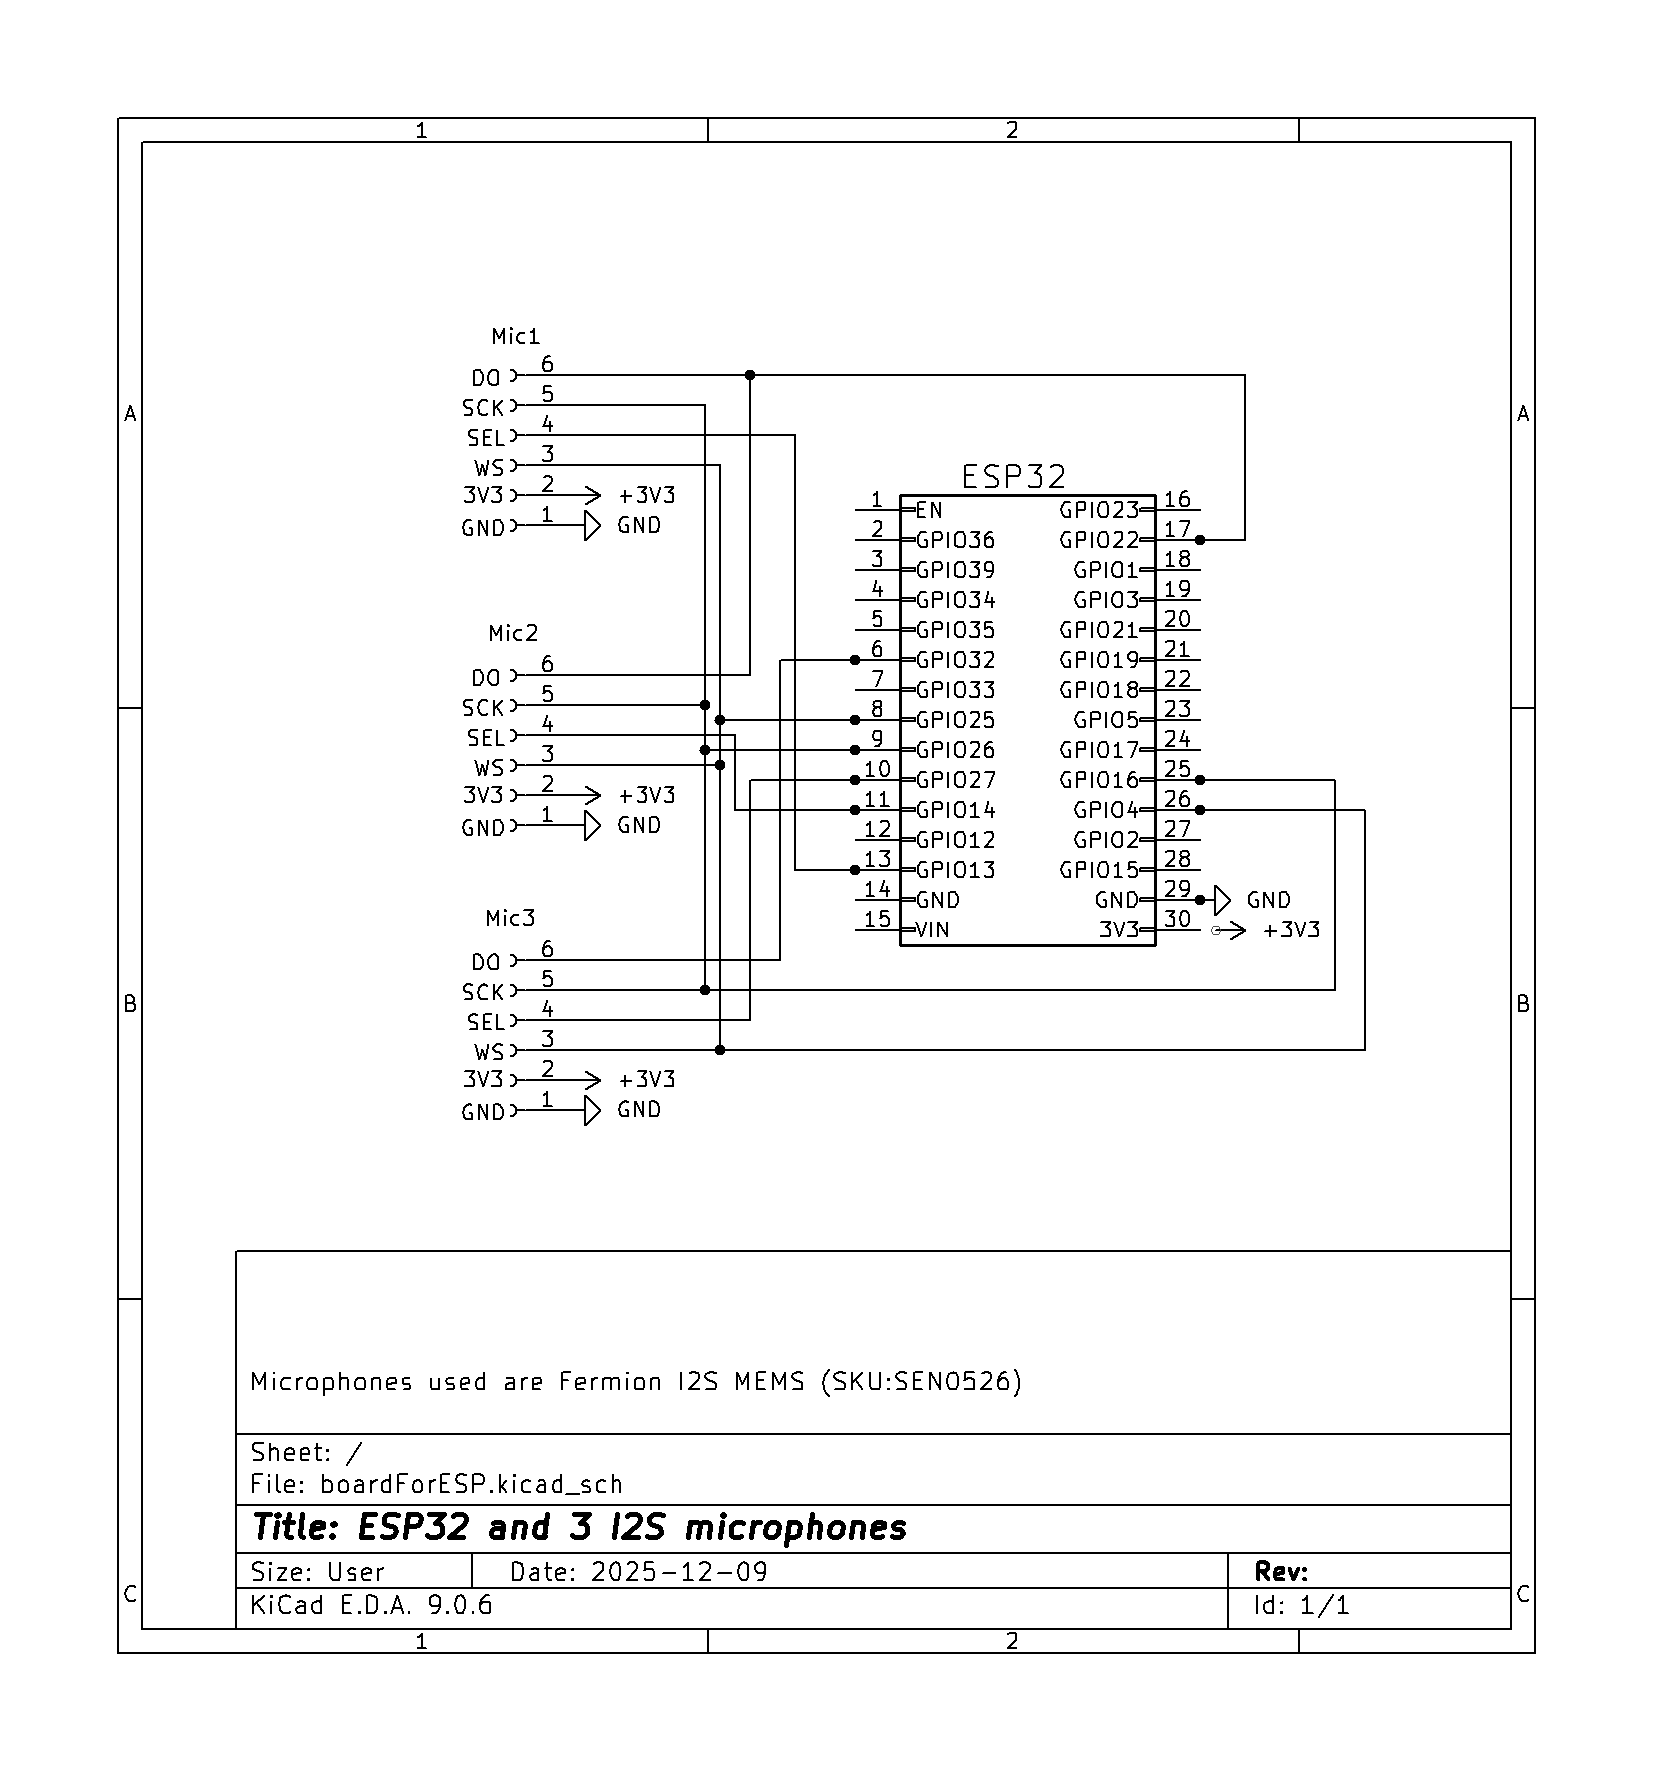
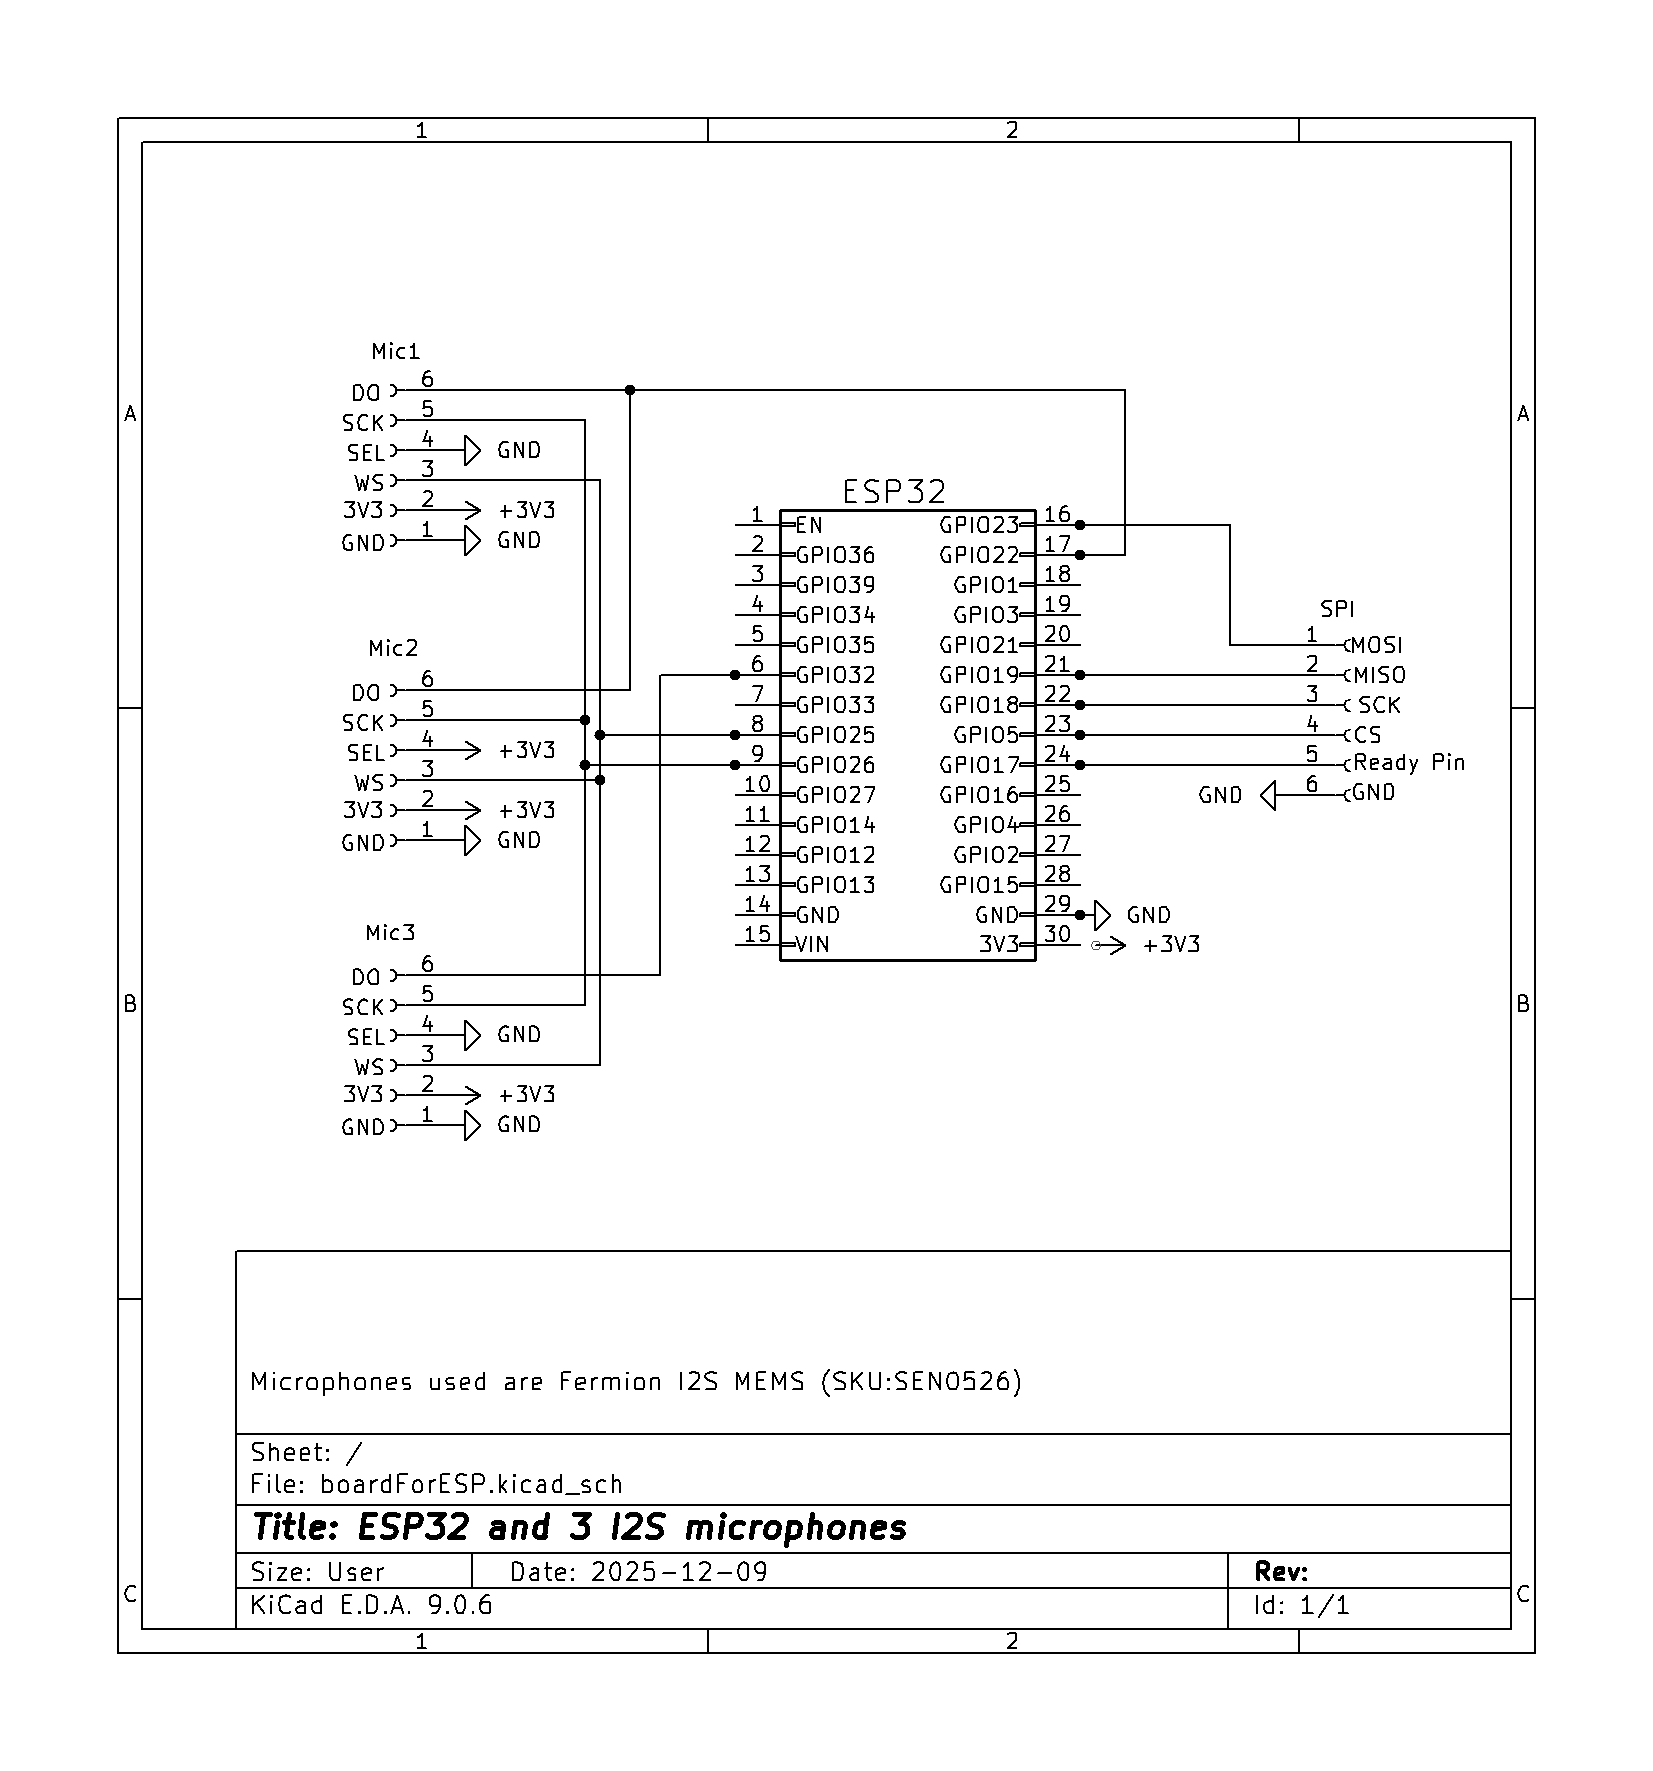
Update wiring diagram description to include SPI pin connections

Changed region(s): [[0.216, 0.2484, 0.833, 0.6522], [0.216, 0.1863, 0.4628, 0.3106], [0.216, 0.3727, 0.4011, 0.4969]]

diff --git a/Sections/sound_recording.tex b/Sections/sound_recording.tex
@@ -27,7 +27,7 @@ For sending the data from the ESP32 to the computer, the wifi module on the ESP3
 The hardware on the Raspberry Pi can only work as the master on the SPI bus, and therefore the ESP32 needs to be in slave mode. Since it is the ESP32 that knows when the data is ready to be sent, a GPIO pin is used as a "data ready" signal form the ESP32 to the Raspberry Pi. The SPI also works with the DMA buffers and, therefore when the ESP32 wants to use SPI to send data, it will load 2 buffers into the DMA, 1 for transmit and 1 for recieve, and then set the "data ready" pin high. The SPI offers a callback which is called when the ESP32 has loaded the DMA buffers, and is ready for a transaction, and another callback when the transaction is complete. In this callback the "data ready" pin can be set high and low respectively. On the Raspberry Pi an event can be set on the "data ready" pin on the rising edge, and when the event is triggered the Raspberry Pi can start the SPI transaction to recieve the data from the ESP32. This method makes it so the ESP32 is in charge of when the data is sent, despite being the slave in the SPI bus. 
 
 \subsection{Electronics}
-The wiring diagram can be seen in \cref{fig:ESP32_electronic}, where the microphones are connected to the I2S interfaces on the ESP32. The microphones are powered by the 3v3 pin on the ESP32, and GND is connected to common ground. The L/R pins are used to choose whether the microphone uses the left or right channel, where microphone 1 and 2 are set to left and right respectively, and microphone 3 is set to right as it is the only one on the second I2S interface.
+The wiring diagram can be seen in \cref{fig:ESP32_electronic}, where the microphones are connected to the I2S interfaces on the ESP32, and the pins used for SPI is also shown. The microphones are powered by the 3v3 pin on the ESP32, and GND is connected to common ground. The SEL pins are used to choose whether the microphone uses the left or right channel, where microphone 1 and 2 are set to left and right respectively, and microphone 3 is set to left as it is the only one on the second I2S interface.
 \begin{figure}[H]
     \centering
     \includegraphics[width=0.7\linewidth]{Pictures/ESP32_electronic.png}
